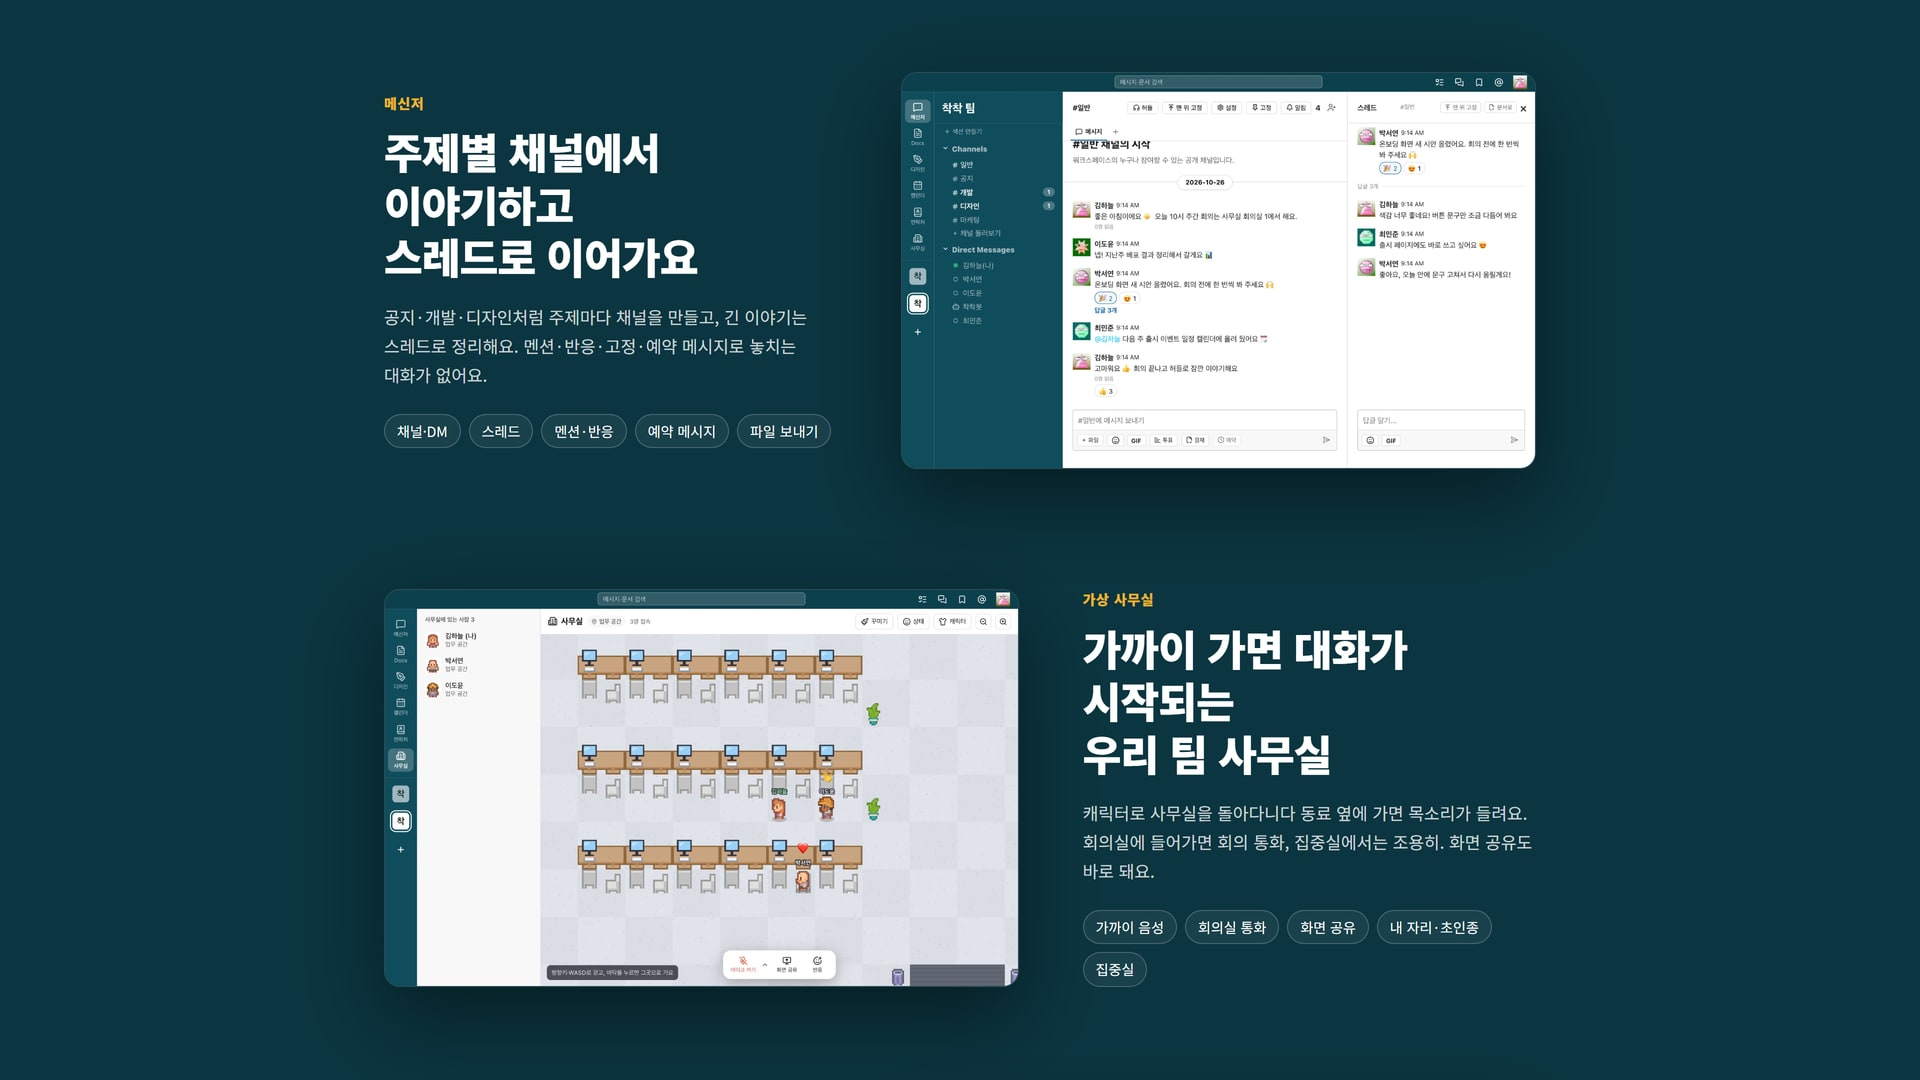
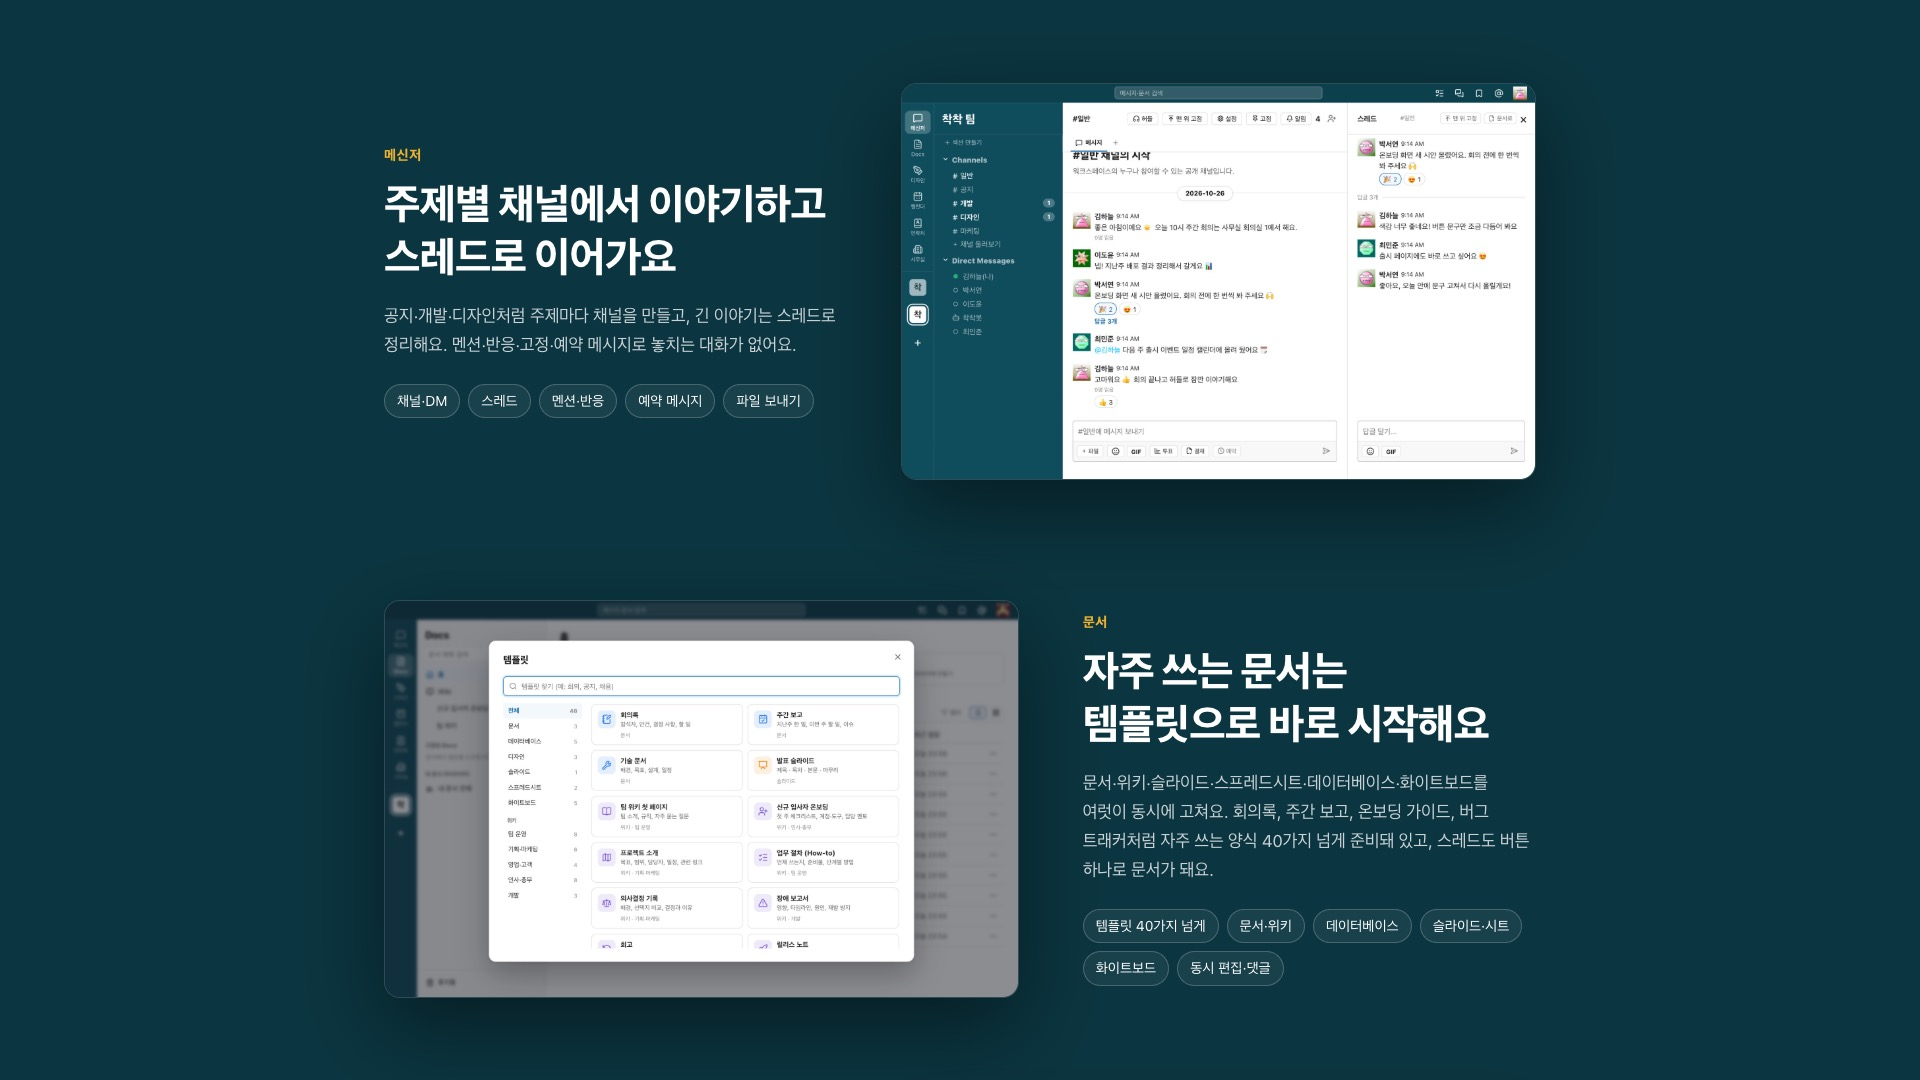
feat : 착착 프로젝트 스크린샷·소개 추가
- 문서 템플릿·디자인 캔버스·커스텀 봇 화면 스크린샷 추가
- 소개 페이지 캡처를 새 소개 페이지 기준으로 바꾸고 일정·커스텀 봇 칸 캡처 추가
- 소개 글에 템플릿·디자인·커스텀 봇 내용 추가

diff --git a/src/components/pages/Projects.tsx b/src/components/pages/Projects.tsx
@@ -553,7 +553,7 @@ export const projects = [
     id: 16,
     title: '착착 (Chakchak)',
     description: '팀의 대화와 일을 한 곳에서 다루는 협업 서비스입니다. 메신저·문서·디자인·일정·가상 사무실을 하나의 협업 공간으로 연결했습니다.',
-    fullDescription: '대화와 작업물이 따로 떨어져 있어 생기는 불편을 줄이기 위해 메신저·문서·디자인·일정·가상 사무실을 하나의 협업 공간으로 연결한 개인 프로젝트로, 공지·개발·디자인 등 주제별 채널과 스레드로 대화를 정리하고 멘션·반응·고정·예약 메시지로 소통을 돕는 동시에, 가상 사무실에서 캐릭터로 이동하며 가까운 동료와 음성으로 대화하거나 회의실에서 통화와 화면 공유를 진행하고 집중실에서 조용히 일할 수 있도록 했으며, 팀 캘린더로 회의를 잡고 문서·슬라이드·시트·화이트보드를 함께 편집하며 채널에서 결재와 할 일까지 처리할 수 있도록 구성하고, 설치 없이 사용하는 웹 브라우저와 윈도우·맥 데스크톱 앱을 모두 지원하도록 개발했습니다.',
+    fullDescription: '대화와 작업물이 따로 떨어져 있어 생기는 불편을 줄이기 위해 메신저·문서·디자인·일정·가상 사무실을 하나의 협업 공간으로 연결한 개인 프로젝트로, 공지·개발·디자인 등 주제별 채널과 스레드로 대화를 정리하고 멘션·반응·고정·예약 메시지로 소통을 돕는 동시에, 가상 사무실에서 캐릭터로 이동하며 가까운 동료와 음성으로 대화하거나 회의실에서 통화와 화면 공유를 진행하고 집중실에서 조용히 일할 수 있도록 했으며, 회의록·위키·버그 트래커 등 40가지가 넘는 템플릿으로 문서·슬라이드·시트·화이트보드·디자인을 바로 시작해 함께 편집하고, 팀 캘린더로 회의를 잡으며 채널에서 결재와 할 일까지 처리할 수 있도록 구성했습니다. 또한 이름과 할 일을 직접 정하는 커스텀 봇으로 외부 서비스의 알림을 채널에 받고, 정해진 시간에 외부 API 결과를 올리거나 /명령에 답하도록 했으며, 설치 없이 사용하는 웹 브라우저와 윈도우·맥 데스크톱 앱을 모두 지원하도록 개발했습니다.',
     image: '/chakchak/chakchak.jpg',
     tags: ['NestJS', 'React', 'TypeScript', 'Socket.IO', 'MariaDB', 'Electron'],
     category: ['TypeScript', 'Node.js'],
@@ -562,11 +562,13 @@ export const projects = [
     role: '프로덕트 개발자',
     features: [
       '메신저 - 채널·DM·스레드 기반 대화, 멘션·반응·고정, 예약 메시지·리마인더·투표 및 메시지 검색',
-      '문서·위키 - 블록 편집기 기반 실시간 공동 편집, 페이지 링크·백링크 및 댓글',
-      '슬라이드·시트·디자인 - 발표 자료·스프레드시트·디자인 캔버스를 메신저 안에서 공동 편집',
+      '문서·위키 - 블록 편집기 기반 실시간 공동 편집, 페이지 링크·백링크 및 댓글, 회의록·온보딩·버그 트래커 등 40가지가 넘는 템플릿',
+      '슬라이드·시트·화이트보드 - 발표 자료·스프레드시트·화이트보드를 메신저 안에서 공동 편집',
+      '디자인 - 프레임·레이어·속성 패널 기반 캔버스, 동료 커서를 보며 함께 편집하고 캔버스 댓글·CSS 복사·PNG·SVG 내보내기',
       '캘린더 - 팀 일정 관리와 동료 캘린더 구독, 대화 중 메시지를 일정·할 일로 전환',
       '가상 사무실 - 캐릭터 이동과 거리 기반 음성 대화, 회의실 통화·화면 공유 및 집중실',
       '허들 - 채널 기반 다자간 음성·화상 통화 및 화면 공유',
+      '커스텀 봇 - 코드 없이 외부 서비스 알림 받기·정해진 시간 API 호출·/명령 응답을 정하고, 개발자용 봇 API·이벤트 연동 제공',
     ],
     points: [
       '메신저와 문서·일정·결재·할 일을 연결해, 대화에서 실제 업무로 이어지는 통합 협업 흐름 설계',
@@ -574,17 +576,22 @@ export const projects = [
       '파일 본문을 서버 대신 사용자 기기에 보관하는 구조로 설계해 서버의 파일 저장 부담 축소',
       '가상 사무실에서 거리 기반 음성 연결과 회의실·집중실 등 구역별 통화 범위 제어 구현',
       '워크스페이스 역할별 권한 관리와 문서 접근 요청·실시간 권한 회수 구현',
+      '커스텀 봇의 예약 작업을 기존 일정 타이머에 얹어 새 상주 루프 없이 처리하고, 봇은 초대된 채널에만 글을 올리도록 제한하며 외부 요청은 내부망 차단·응답 시간·크기 제한으로 보호',
       '웹과 데스크톱이 동일한 화면과 기능을 공유하도록 구성하고, Windows·macOS 전용 기능을 Electron으로 확장',
     ],
     screenshots: [
       '/chakchak/chakchak-landing1.jpg',
       '/chakchak/chakchak-landing2.jpg',
       '/chakchak/chakchak-landing3.jpg',
+      '/chakchak/chakchak-landing5.jpg',
       '/chakchak/chakchak-landing4.jpg',
       '/chakchak/chakchak2.jpg',
       '/chakchak/chakchak3.jpg',
+      '/chakchak/chakchak6.jpg',
+      '/chakchak/chakchak7.jpg',
       '/chakchak/chakchak4.jpg',
       '/chakchak/chakchak5.jpg',
+      '/chakchak/chakchak8.jpg',
     ]
   },
 ];
